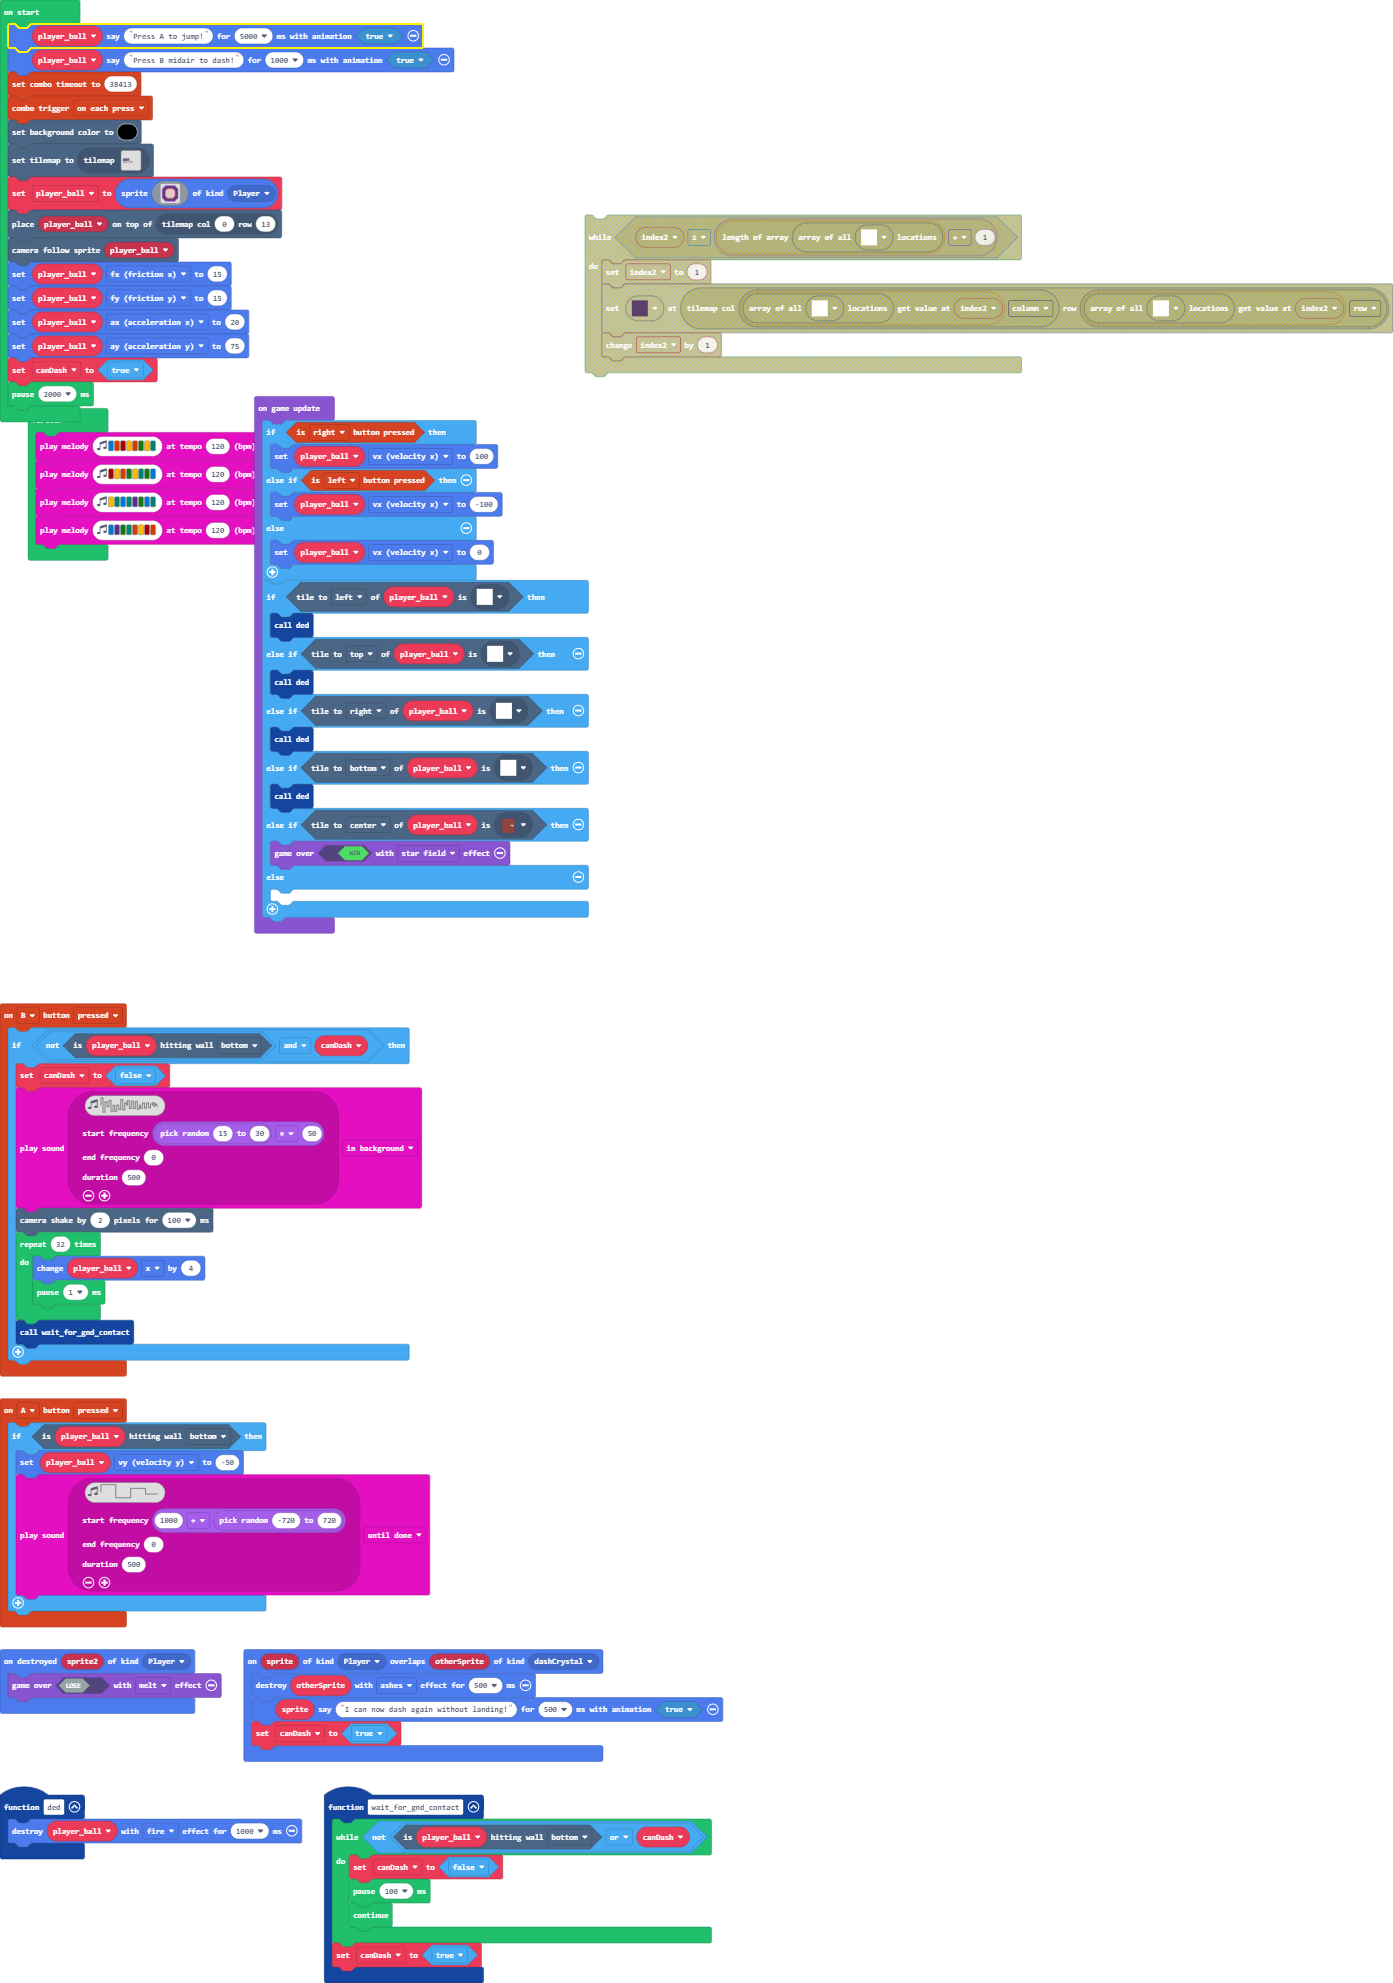
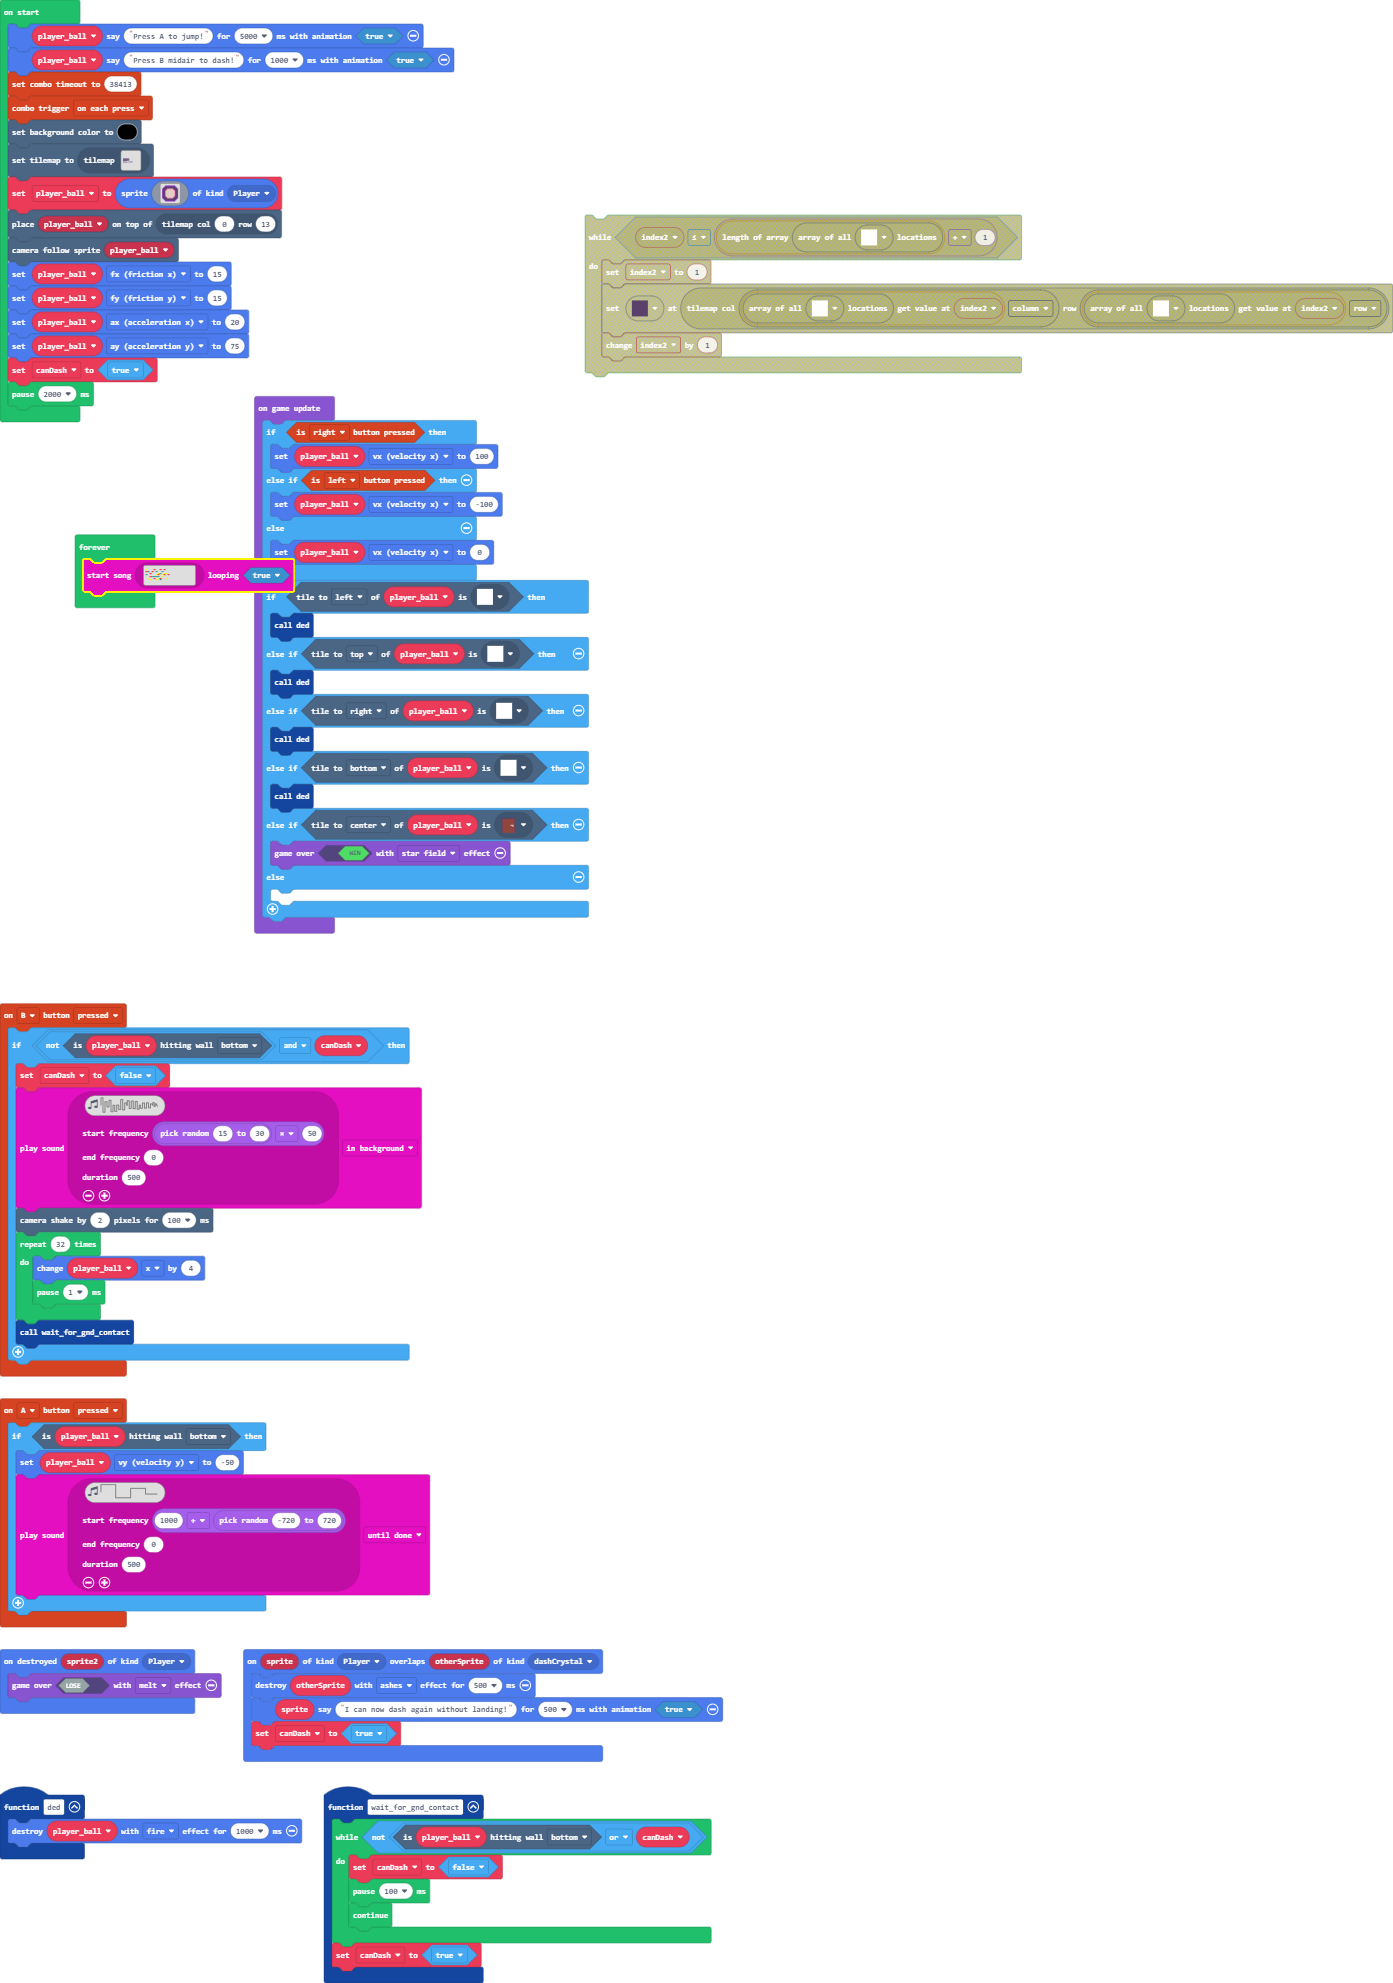
Changed music

Changed region(s): [[0.0, 0.1846, 0.2161, 0.3076]]

diff --git a/images.g.ts b/images.g.ts
@@ -141,7 +141,7 @@ a c c c c 3 3 3 3 3 3 c c c c a
     helpers._registerFactory("song", function(name: string) {
         switch(helpers.stringTrim(name)) {
             case "song1":
[2 lines of base64/hex data omitted]
         }
         return null;
     })

diff --git a/main.ts b/main.ts
@@ -96,8 +96,5 @@ game.onUpdate(function () {
     }
 })
 forever(function () {
-    music.playMelody("E B C5 A B G A F ", 120)
-    music.playMelody("C5 A B G A F G E ", 120)
-    music.playMelody("A F E F D G E F ", 120)
-    music.playMelody("E D G F B A C5 B ", 120)
+    music.startSong(assets.song`music`, true)
 })
